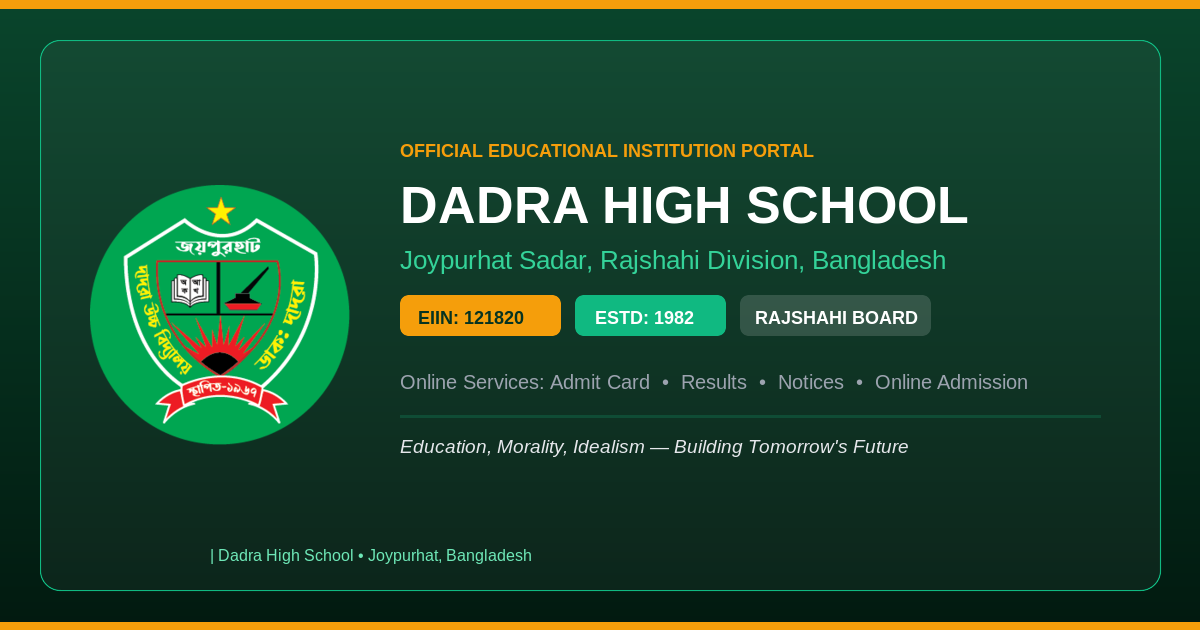
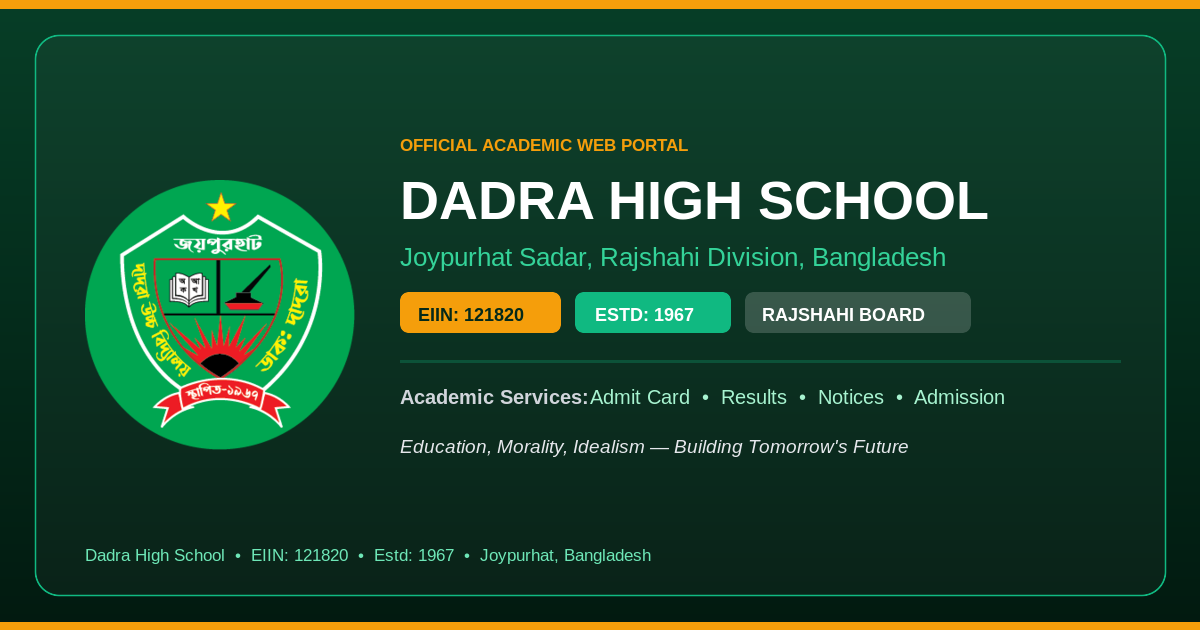
chore: update site metadata and deployment config
- Update established year to 1967.
- Migrate OG meta tags and dynamic URL generation to Vercel deployment.
- Add support for secondary JPEG social previews.

diff --git a/src/data/initialData.ts b/src/data/initialData.ts
@@ -35,7 +35,7 @@ export const initialSiteSettings: SiteSettings = {
   headmasterName: 'মো: সাদেকুল ইসলাম',
   headmasterDesignation: 'প্রধান শিক্ষক',
   headmasterSignatureUrl: '',
-  establishedYear: '১৯৮২',
+  establishedYear: '১৯৬৭',
   phone1: '+880 1711-123456',
   phone2: '+880 1711-654321',
   emergencyPhone: '+880 1711-654321',
@@ -49,17 +49,17 @@ export const initialSiteSettings: SiteSettings = {
   linkedin: '',
   whatsapp: 'https://wa.me/8801711123456',
   metaTitle: 'Dadra High School | দাদরা উচ্চ বিদ্যালয় — জয়পুরহাট',
-  metaDescription: '১৯৮২ সালে প্রতিষ্ঠিত দাদরা উচ্চ বিদ্যালয়, জয়পুরহাট। মানসম্মত শিক্ষা, সুশিক্ষক, আধুনিক ল্যাব ও সুবিশাল ক্যাম্পাস।',
-  ogImageUrl: '',
+  metaDescription: '১৯৬৭ সালে প্রতিষ্ঠিত দাদরা উচ্চ বিদ্যালয়, জয়পুরহাট। মানসম্মত শিক্ষা, সুশিক্ষক, আধুনিক ল্যাব ও সুবিশাল ক্যাম্পাস।',
+  ogImageUrl: '/assets/og-preview.png',
   copyrightText: '© 2026 দাদরা উচ্চ বিদ্যালয় | Dadra High School. সর্বস্বত্ব সংরক্ষিত।',
   boardAffiliation: 'মাধ্যমিক ও উচ্চ মাধ্যমিক শিক্ষা বোর্ড, রাজশাহী অনুমোদিত',
   footerCreditPrefix: 'সাথে',
   footerCreditText: 'ছাত্র-শিক্ষক ঐক্য',
-  aboutIntro: '১৯৮২ সালে প্রতিষ্ঠিত দাদরা উচ্চ বিদ্যালয় জয়পুরহাট জেলার অন্যতম প্রাচীন ও স্বনামধন্য শিক্ষা প্রতিষ্ঠান। গত ছয় দশকে এই প্রতিষ্ঠান শত শত কৃতি শিক্ষার্থী তৈরি করেছে যারা দেশে-বিদেশে নিজ নিজ ক্ষেত্রে সুনাম অর্জন করেছেন। আমাদের লক্ষ্য শুধু পাস করানো নয় — আমরা গড়ি সৎ, সুশিক্ষিত, দায়িত্বশীল নাগরিক।',
+  aboutIntro: '১৯৬৭ সালে প্রতিষ্ঠিত দাদরা উচ্চ বিদ্যালয় জয়পুরহাট জেলার অন্যতম প্রাচীন ও স্বনামধন্য শিক্ষা প্রতিষ্ঠান। গত প্রায় ছয় দশকে এই প্রতিষ্ঠান শত শত কৃতি শিক্ষার্থী তৈরি করেছে যারা দেশে-বিদেশে নিজ নিজ ক্ষেত্রে সুনাম অর্জন করেছেন। আমাদের লক্ষ্য শুধু পাস করানো নয় — আমরা গড়ি সৎ, সুশিক্ষিত, দায়িত্বশীল নাগরিক।',
   mission: 'মানসম্মত, নৈতিক ও আধুনিক শিক্ষার মাধ্যমে শিক্ষার্থীদের দক্ষ, মূল্যবোধসম্পন্ন ও দেশপ্রেমিক নাগরিক হিসেবে গড়ে তোলা। বিজ্ঞান ও প্রযুক্তিতে দক্ষ, সংস্কারে উন্নত এবং মানবিক মূল্যবোধে ঋদ্ধ একটি প্রজন্ম তৈরিতে নিরলসভাবে কাজ করা।',
   vision: 'একটি আধুনিক, প্রতিযোগিতামূলক ও মানবিক শিক্ষা ব্যবস্থা গড়ে তোলা, যেখানে শিক্ষার্থীরা নিজেদের সম্ভাবনার পূর্ণ বিকাশ ঘটাতে পারবে এবং দেশ ও জাতির জন্য দায়িত্বশীল নেতৃত্ব দিতে প্রস্তুত হবে।',
   objectives: '১. মানসম্মত পাঠদান নিশ্চিত করা\n২. নৈতিক মূল্যবোধ ও দেশপ্রেম জাগ্রত করা\n৩. বিজ্ঞান ও প্রযুক্তিতে দক্ষতা অর্জন\n৪. সহশিক্ষা কার্যক্রমের মাধ্যমে মেধা ও মনন বিকাশ\n৫. দরিদ্র ও মেধাবী শিক্ষার্থীদের জন্য শিক্ষা বৃত্তি প্রদান\n৬. আধুনিক ল্যাব ও লাইব্রেরি সুবিধা নিশ্চিত করা',
-  history: '১৯৮২ সালে তৎকালীন সমাজসেবী ও শিক্ষানুরাগী ব্যক্তিবর্গের ঐক্যে প্রতিষ্ঠিত হয় দাদরা উচ্চ বিদ্যালয়। প্রথম দিকে কাঁচা-পাকা একটি কক্ষে কেবল ৩৫ জন শিক্ষার্থী নিয়ে যাত্রা শুরু হলেও আজ এটি ১২০০+ শিক্ষার্থীর একটি পূর্ণাঙ্গ মাধ্যমিক বিদ্যালয়। ১৯৭১ সালের মুক্তিযুদ্ধে এই বিদ্যালয়ের ছাত্র-শিক্ষকেরা সরাসরি অংশ নেন। ষাটের বেশি বছরের পথচলায় বিদ্যালয় পেয়েছে বহু সম্মাননা — বোর্ড স্ট্যান্ডিং, পূর্ণাঙ্গনীয় বৃত্তি, জাতীয় পুরস্কার।',
+  history: '১৯৬৭ সালে তৎকালীন সমাজসেবী ও শিক্ষানুরাগী ব্যক্তিবর্গের ঐক্যে প্রতিষ্ঠিত হয় দাদরা উচ্চ বিদ্যালয়। প্রথম দিকে কাঁচা-পাকা একটি কক্ষে কেবল ৩৫ জন শিক্ষার্থী নিয়ে যাত্রা শুরু হলেও আজ এটি ১২০০+ শিক্ষার্থীর একটি পূর্ণাঙ্গ মাধ্যমিক বিদ্যালয়। ১৯৭১ সালের মুক্তিযুদ্ধে এই বিদ্যালয়ের ছাত্র-শিক্ষকেরা সরাসরি অংশ নেন। দীর্ঘ পথচলায় বিদ্যালয় পেয়েছে বহু সম্মাননা — বোর্ড স্ট্যান্ডিং, বৃত্তি ও জাতীয় স্বীকৃতি।',
   whyUs: '• অভিজ্ঞ ও সম্মানিত শিক্ষক মণ্ডলী\n• আধুনিক বিজ্ঞান ল্যাব ও কম্পিউটার ল্যাব\n• সুবিশাল গ্রন্থাগার — ৮,০০০+ বই\n• বিশুদ্ধ পাঠদান পরিবেশ\n• নিয়মিত ক্রীড়া ও সাংস্কৃতিক কার্যক্রম\n• ডিজিটাল ক্লাসরুম ও মাল্টিমিডিয়া\n• বিনামূল্যে সহপাঠ ও পরামর্শ\n• মেধাবী শিক্ষার্থীদের জন্য বৃত্তি',
   facilities: 'বিজ্ঞান ল্যাব (পদার্থ, রসায়ন, জীব), কম্পিউটার ল্যাব (৩০টি পিসি), গ্রন্থাগার, ডিজিটাল ক্লাসরুম, বিশাল খেলার মাঠ, প্রার্থনা কক্ষ, কৃষি প্রকল্প, স্কাউট ডিস্ট্রিক্ট, ফার্স্ট এইড ইউনিট',
   totalStudents: '১,২০০+',

diff --git a/index.html b/index.html
@@ -11,13 +11,23 @@
     <meta property="og:site_name" content="দাদরা উচ্চ বিদ্যালয় | Dadra High School" />
     <meta property="og:title" content="দাদরা উচ্চ বিদ্যালয় | Dadra High School — জয়পুরহাট" />
     <meta property="og:description" content="দাদরা উচ্চ বিদ্যালয়ের অফিসিয়াল ওয়েব পোর্টাল — অনলাইন প্রবেশপত্র (Admit Card), পরীক্ষার ফলাফল, নোটিশ বোর্ড এবং অনলাইন ভর্তি কার্যক্রম।" />
-    <meta property="og:url" content="https://ais-pre-aagdt6mj2xoe2mnqgrmosn-40389410048.asia-southeast1.run.app" />
-    <meta property="og:image" content="https://ais-pre-aagdt6mj2xoe2mnqgrmosn-40389410048.asia-southeast1.run.app/assets/og-preview.png" />
-    <meta property="og:image:secure_url" content="https://ais-pre-aagdt6mj2xoe2mnqgrmosn-40389410048.asia-southeast1.run.app/assets/og-preview.png" />
+    <meta property="og:url" content="https://dhsedu.vercel.app/" />
+    
+    <!-- Primary High-Resolution OpenGraph Image (PNG) -->
+    <meta property="og:image" content="https://dhsedu.vercel.app/assets/og-preview.png" />
+    <meta property="og:image:secure_url" content="https://dhsedu.vercel.app/assets/og-preview.png" />
     <meta property="og:image:type" content="image/png" />
     <meta property="og:image:width" content="1200" />
     <meta property="og:image:height" content="630" />
-    <meta property="og:image:alt" content="দাদরা উচ্চ বিদ্যালয় — Dadra High School" />
+    <meta property="og:image:alt" content="দাদরা উচ্চ বিদ্যালয় — Dadra High School (EIIN: 121820, স্থাপিত: ১৯৬৭)" />
+    
+    <!-- Secondary OpenGraph Image (JPEG format for WhatsApp and mobile crawlers) -->
+    <meta property="og:image" content="https://dhsedu.vercel.app/assets/og-preview.jpg" />
+    <meta property="og:image:secure_url" content="https://dhsedu.vercel.app/assets/og-preview.jpg" />
+    <meta property="og:image:type" content="image/jpeg" />
+    <meta property="og:image:width" content="1200" />
+    <meta property="og:image:height" content="630" />
+    
     <meta property="og:locale" content="bn_BD" />
     <meta property="og:locale:alternate" content="en_US" />
 
@@ -25,12 +35,12 @@
     <meta name="twitter:card" content="summary_large_image" />
     <meta name="twitter:title" content="দাদরা উচ্চ বিদ্যালয় | Dadra High School — জয়পুরহাট" />
     <meta name="twitter:description" content="দাদরা উচ্চ বিদ্যালয়ের অফিসিয়াল ওয়েব পোর্টাল — অনলাইন প্রবেশপত্র (Admit Card), পরীক্ষার ফলাফল, নোটিশ বোর্ড এবং অনলাইন ভর্তি কার্যক্রম।" />
-    <meta name="twitter:image" content="https://ais-pre-aagdt6mj2xoe2mnqgrmosn-40389410048.asia-southeast1.run.app/assets/og-preview.png" />
-    <meta name="twitter:image:alt" content="দাদরা উচ্চ বিদ্যালয় — Dadra High School" />
+    <meta name="twitter:image" content="https://dhsedu.vercel.app/assets/og-preview.png" />
+    <meta name="twitter:image:alt" content="দাদরা উচ্চ বিদ্যালয় — Dadra High School (EIIN: 121820, স্থাপিত: ১৯৬৭)" />
 
     <!-- Canonical and Fallback Link Tags -->
-    <link rel="canonical" href="https://ais-pre-aagdt6mj2xoe2mnqgrmosn-40389410048.asia-southeast1.run.app" />
-    <link rel="image_src" href="https://ais-pre-aagdt6mj2xoe2mnqgrmosn-40389410048.asia-southeast1.run.app/assets/og-preview.png" />
+    <link rel="canonical" href="https://dhsedu.vercel.app/" />
+    <link rel="image_src" href="https://dhsedu.vercel.app/assets/og-preview.png" />
     <link rel="icon" type="image/png" href="/assets/aistudio/Logo_a3f5277a.png" />
     <link rel="apple-touch-icon" href="/assets/aistudio/Logo_a3f5277a.png" />
 
@@ -41,10 +51,10 @@
       "@type": "EducationalOrganization",
       "name": "দাদরা উচ্চ বিদ্যালয়",
       "alternateName": "Dadra High School",
-      "url": "https://ais-pre-aagdt6mj2xoe2mnqgrmosn-40389410048.asia-southeast1.run.app",
-      "logo": "https://ais-pre-aagdt6mj2xoe2mnqgrmosn-40389410048.asia-southeast1.run.app/assets/aistudio/Logo_a3f5277a.png",
-      "image": "https://ais-pre-aagdt6mj2xoe2mnqgrmosn-40389410048.asia-southeast1.run.app/assets/og-preview.png",
-      "description": "১৯৮২ সালে প্রতিষ্ঠিত দাদরা উচ্চ বিদ্যালয়, জয়পুরহাট। মানসম্মত শিক্ষা, সুশিক্ষক, আধুনিক ল্যাব ও সুবিশাল ক্যাম্পাস।",
+      "url": "https://dhsedu.vercel.app/",
+      "logo": "https://dhsedu.vercel.app/assets/aistudio/Logo_a3f5277a.png",
+      "image": "https://dhsedu.vercel.app/assets/og-preview.png",
+      "description": "১৯৬৭ সালে প্রতিষ্ঠিত দাদরা উচ্চ বিদ্যালয়, জয়পুরহাট। মানসম্মত শিক্ষা, সুশিক্ষক, আধুনিক ল্যাব ও সুবিশাল ক্যাম্পাস।",
       "address": {
         "@type": "PostalAddress",
         "streetAddress": "দাদরা",

diff --git a/src/App.tsx b/src/App.tsx
@@ -93,11 +93,25 @@ const SEOManager: React.FC = () => {
     document.title = pageTitle;
 
     // 2. OpenGraph & Meta Tag sync
-    const origin = typeof window !== 'undefined' ? window.location.origin : '';
-    const currentUrl = typeof window !== 'undefined' ? window.location.href : '';
+    const origin =
+      typeof window !== 'undefined' &&
+      window.location.origin &&
+      !window.location.origin.includes('localhost') &&
+      !window.location.origin.includes('run.app')
+        ? window.location.origin
+        : 'https://dhsedu.vercel.app';
+    const currentUrl =
+      typeof window !== 'undefined' &&
+      window.location.origin &&
+      !window.location.origin.includes('localhost') &&
+      !window.location.origin.includes('run.app')
+        ? window.location.href
+        : `https://dhsedu.vercel.app${typeof window !== 'undefined' ? window.location.search : ''}`;
     const defaultOgImage = `${origin}/assets/og-preview.png`;
     const ogImage = siteSettings.ogImageUrl
-      ? (siteSettings.ogImageUrl.startsWith('http') ? siteSettings.ogImageUrl : `${origin}${siteSettings.ogImageUrl}`)
+      ? siteSettings.ogImageUrl.startsWith('http')
+        ? siteSettings.ogImageUrl
+        : `${origin}${siteSettings.ogImageUrl}`
       : defaultOgImage;
 
     const description =
